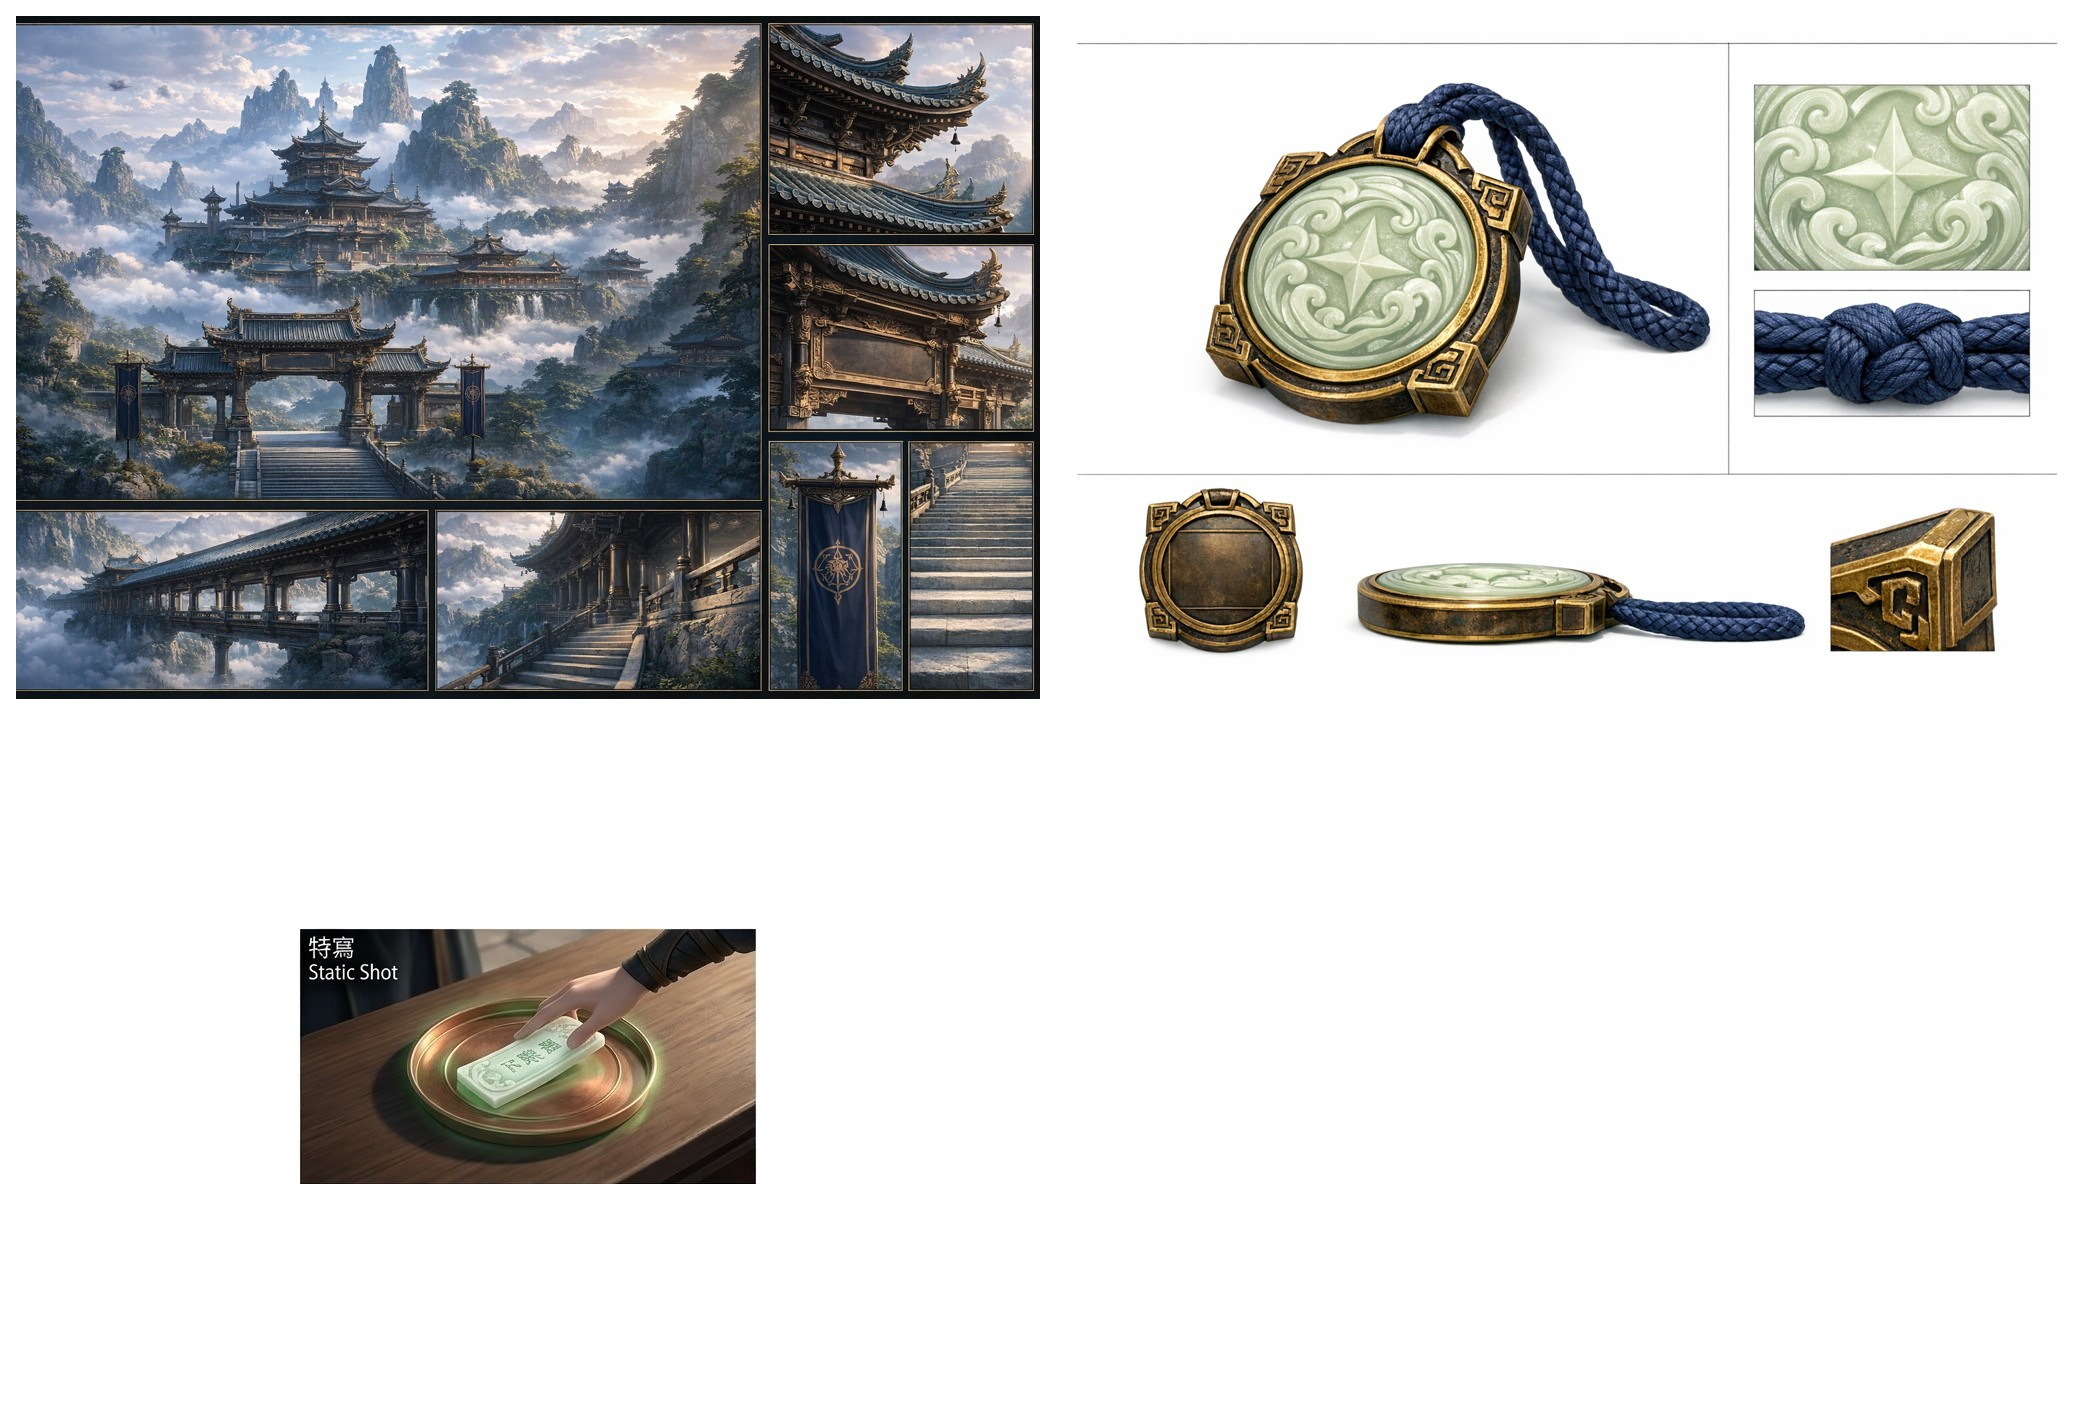
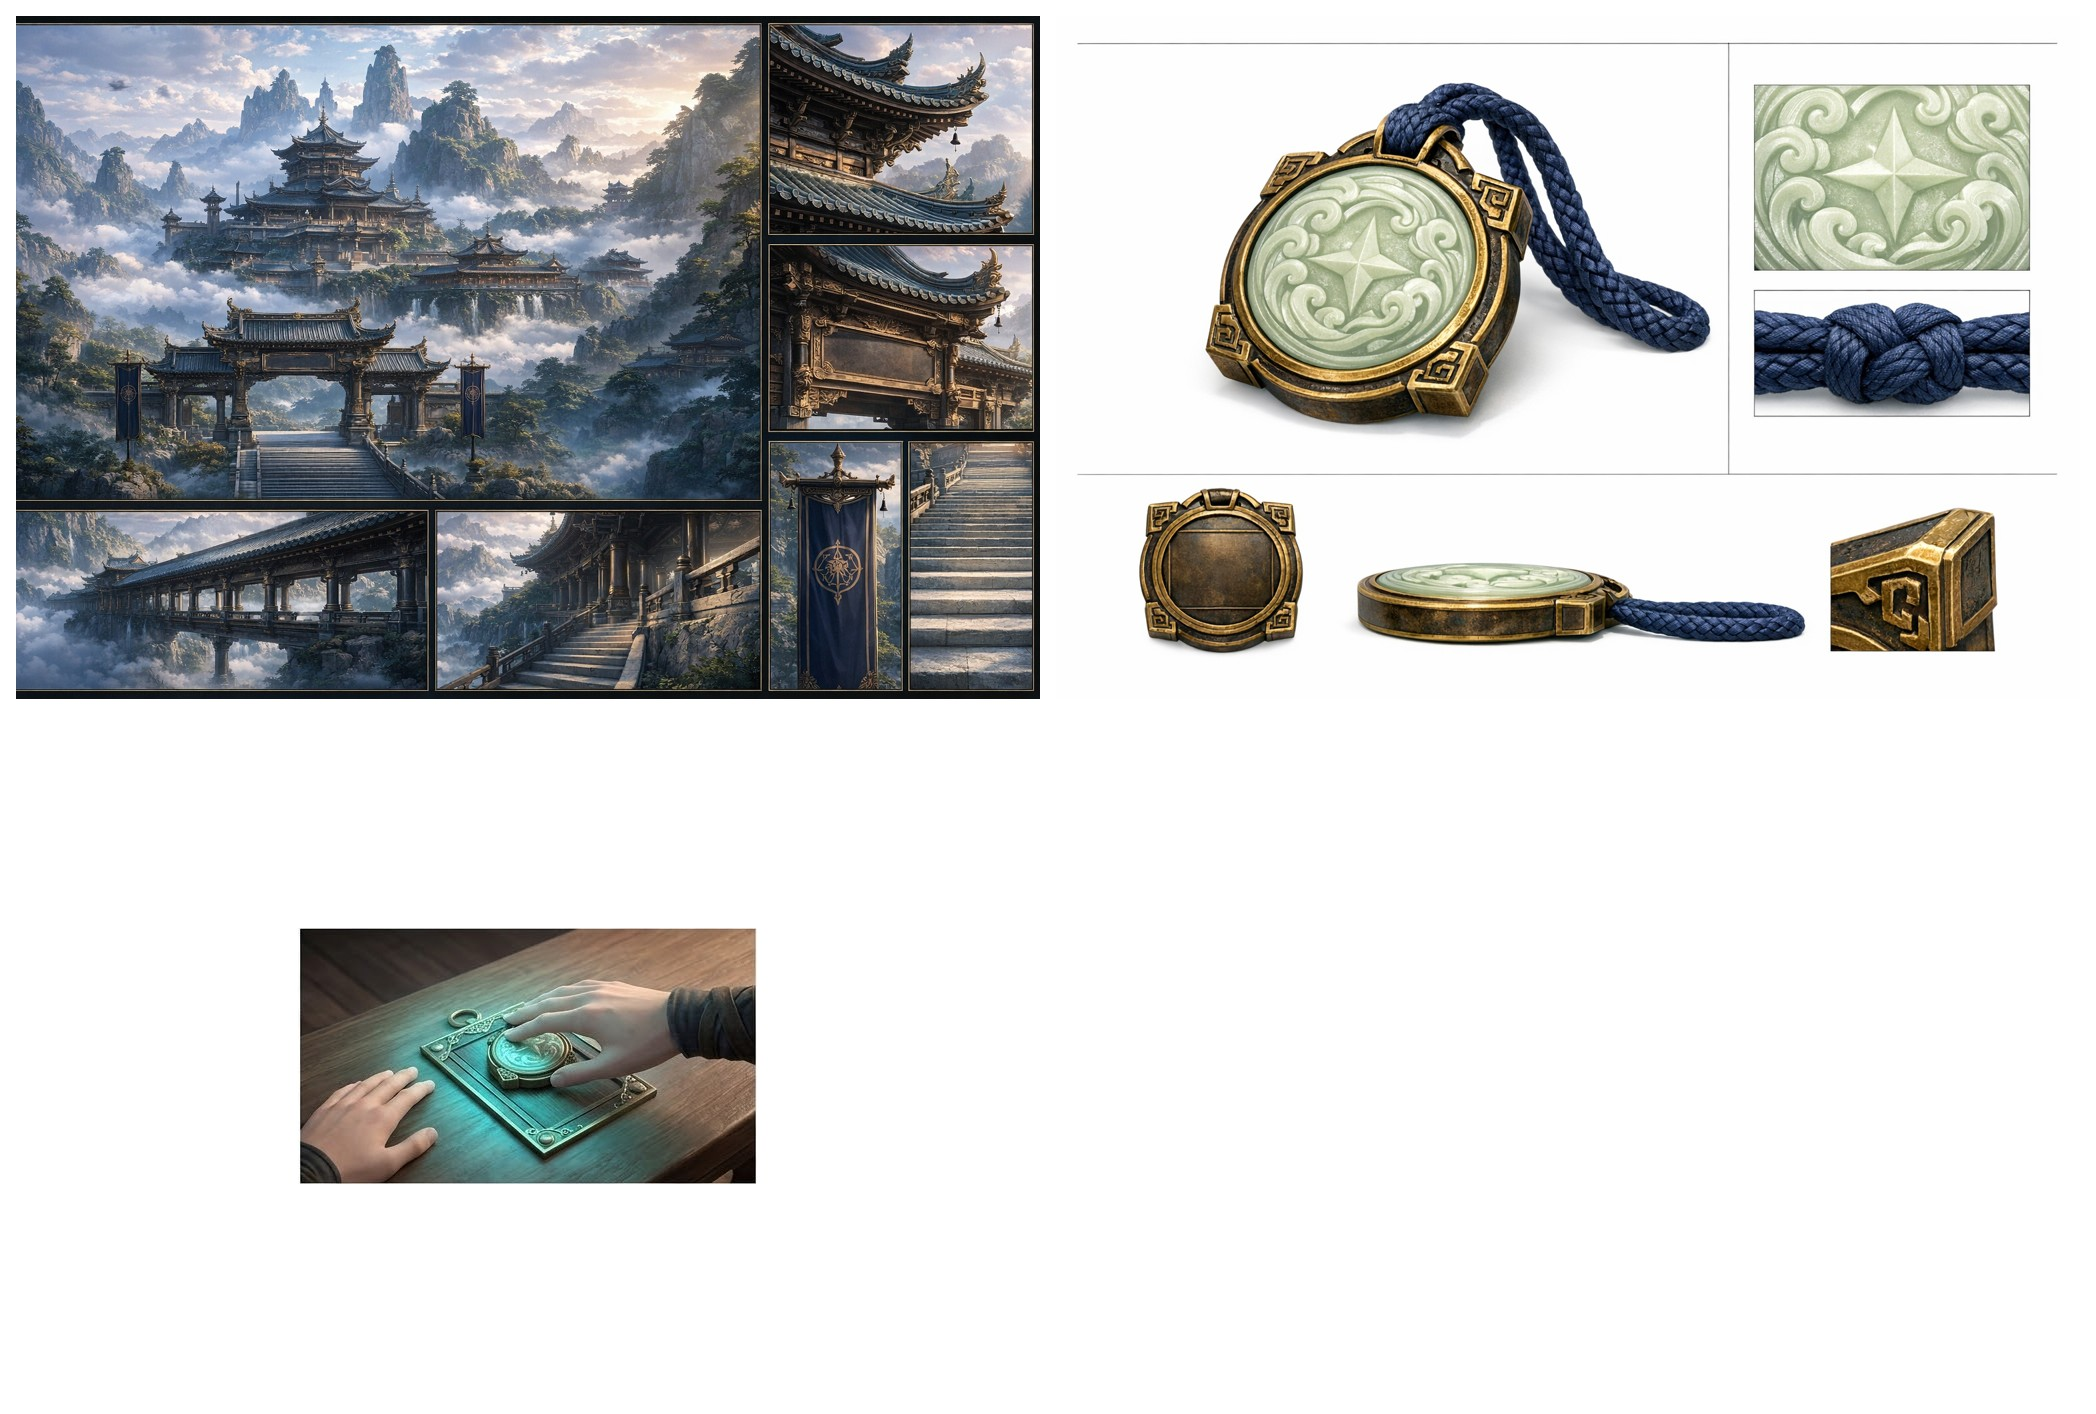
S02-1 第二版故事版取 A03 f1、A05 f1 兩格；S02-2 故事版構圖通過（畫風 2D 不採用）；單格提示詞 A03～A09 共 14 張，註明只照構圖；故事版提示詞禁止 2D 動漫風
Claude-Session: https://claude.ai/code/session_017YfYk6Rqfgdxwz4BghZYcX

Changed region(s): [[0.124, 0.6535, 0.3721, 0.8402]]

diff --git a/production/LF01/tools/scene02_prompts.py b/production/LF01/tools/scene02_prompts.py
@@ -32,6 +32,25 @@ CLOSEUPS = {
             "blurred courtyard and other students in clear morning light."),
 }
 # 已出圖但不合格、要單格重出的（修正寫在 lf01.json 該格的 layout）
+# 同一張故事版出過第二版（b），某幾格第二版比較好時改用它：(段號, 第幾格) → (故事版檔名, 第幾格)
+PANEL_OVERRIDE = {("A03", 1): ("S02-1b", 5), ("A05", 1): ("S02-1b", 9)}  # 第一版憑證是方形有字、門牌寫了字
+
+
+def panel_override(seg, k):
+    from PIL import Image
+    if (seg, k) not in PANEL_OVERRIDE:
+        return None
+    name, n = PANEL_OVERRIDE[(seg, k)]
+    src = os.path.join(LF, "storyboard", "boards", f"{name}.png")
+    im = Image.open(src).convert("RGB")
+    W, H = im.size
+    r, c = divmod(n - 1, 3)
+    dst = os.path.join(LF, "storyboard", "boards", name, f"p{n}.jpg")
+    os.makedirs(os.path.dirname(dst), exist_ok=True)
+    im.crop((int(c * W / 3), int(r * H / 3), int((c + 1) * W / 3), int((r + 1) * H / 3))).save(dst, quality=92)
+    return dst
+
+
 # (段號, 第幾格, 為什麼重出)；2026-10-07 的 A01 f2、A02 f1 已重出通過，清空。驗圖紀錄見 ../README.md
 REDO = []
 LIPSYNC = ("The face is large, sharp and clearly visible (this shot will be used for lip-sync), no hands or objects covering "
@@ -85,9 +104,11 @@ def main():
         L += ["# 單格正式分鏡圖（故事版已通過的格子）", "",
               "> 每張開新對話；參考拼圖最後一格是故事版裁下來的那一格，照它的構圖、但畫質要做到正式分鏡圖。", ""]
     for j in todo:
-        refs = j["refs"] + [j["panel"]]
+        refs = j["refs"] + [panel_override(j["seg"]["id"], j["k"]) or j["panel"]]
         descs = j["descs"] + ["the approved storyboard panel for THIS shot — follow its framing, camera angle and staging, "
-                              "but render at full finished quality; ignore any small label text in its corner"]
+                              "but render at full finished quality; ignore any small label text in its corner. Take ONLY the composition "
+                              "from it — NOT its drawing style, colours or faces: render in the semi-realistic 3D style of the character "
+                              "sheets, with faces, hair colour and body proportions exactly as on the character sheets"]
         board = j["board"].replace(".jpg", "-panel.jpg")
         ups, lines = h.board_or_single(refs, descs, board)
         L += [f"## {j['seg']['id']} f{j['k']}　→ 存成 `{h.rel(j['out'])}`", "", "**上傳：** " + "、".join(ups), "",

diff --git a/production/LF01/tools/lf01_handoff.py b/production/LF01/tools/lf01_handoff.py
@@ -184,7 +184,8 @@ def board_jobs():
                 f"Read left to right, top to bottom; SHOT 1 fills the first cell. {len(part)} cells are used"
                 + (f"; the remaining {cols * rows - len(part)} grid cell(s) at the end stay plain white" if len(part) < cols * rows else "")
                 + ". Each panel is a finished colour frame in the same rendering style as the reference sheets (simpler detail "
-                "is fine, but NOT a pencil sketch). The same character must look identical in every panel — face, hair, "
+                "is fine, but NOT a pencil sketch, and NOT 2D anime, manhwa or cel-shaded line art — every panel is a semi-realistic 3D render "
+                "like the character sheets). The same character must look identical in every panel — face, hair, "
                 "costume, weapon — and match the character sheets; the location stays consistent across panels. Vary the "
                 "shot sizes exactly as listed. No text, no panel numbers, no captions, no speech bubbles, no arrows.\n\n"
                 + "\n\n".join(panels))
